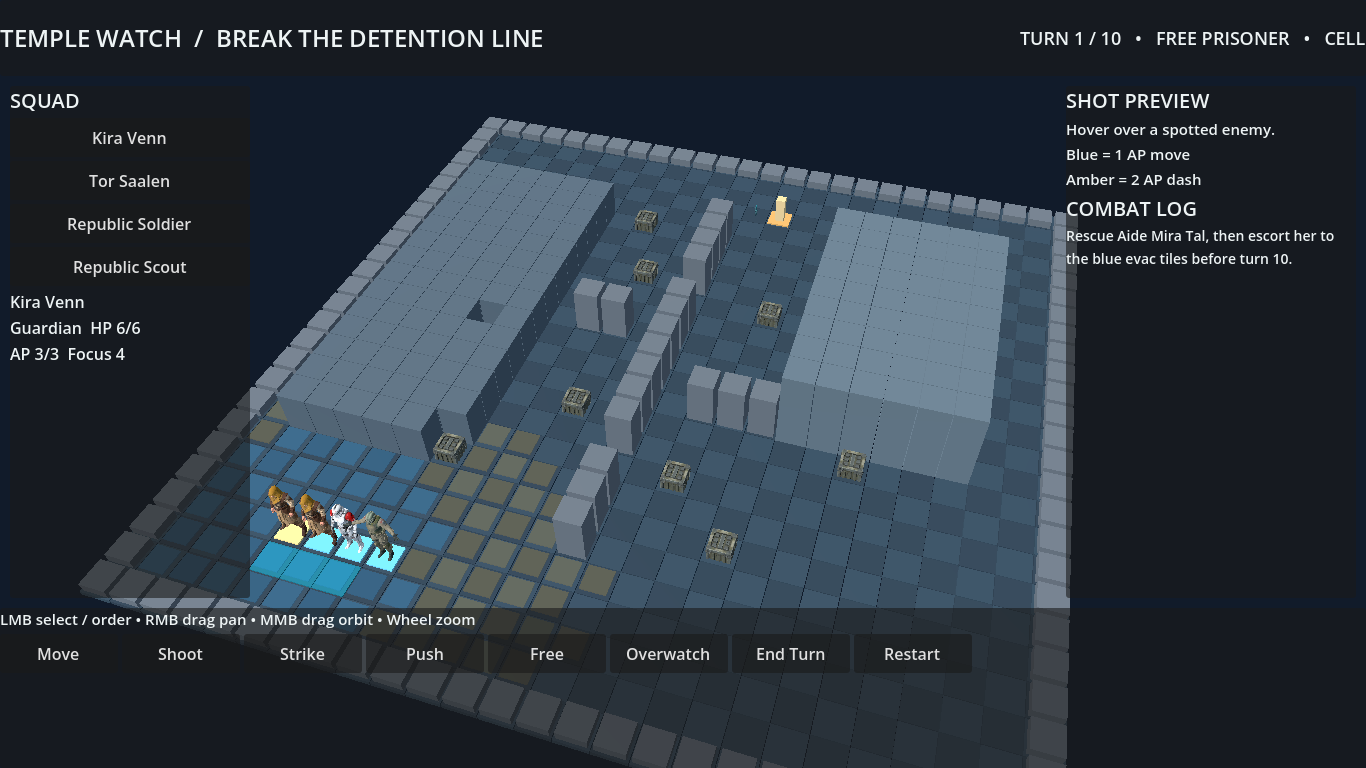
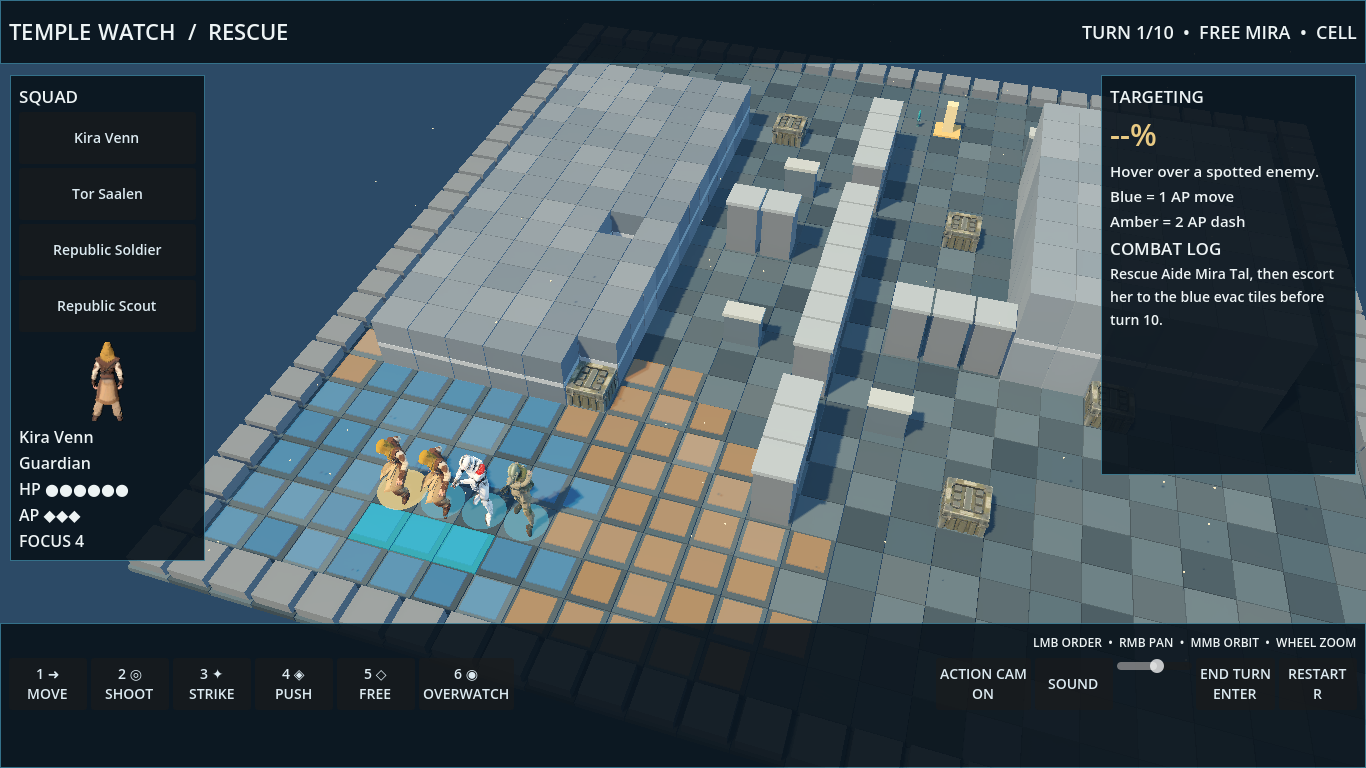
Document and capture the polished rescue mission

diff --git a/docs/godot/README.md b/docs/godot/README.md
@@ -1,41 +1,50 @@
 # Temple Watch desktop rescue mission
 
-Godot 4.7.2, milestones 1–3 complete with parts of milestone 4. Open a desktop window from the repository root:
+Open with Godot 4.7.2 from the repository root:
 
 ```bash
 ./godot/run.sh
 ```
 
-`run.sh` uses `GODOT_BIN` when set; otherwise it uses the installed Godot binary at `/home/jess/projects/.tools/godot/godot`. To use a different Godot installation, set `GODOT_BIN` to its executable path. The game itself uses only `res://` paths and works with a Windows Godot build after opening/importing the project.
+`GODOT_BIN` can point to another Godot 4.7 build. The project uses `res://` assets and can be opened on Windows. Forward+ rendering enables SSAO and glow. The web game in `public/` remains untouched.
 
 ## Play
 
-- Click a squad member or their name to select them. Choose **Move**, then click a blue tile for a 1 AP move or amber tile for a 2 AP dash.
-- Choose **Shoot**, **Strike**, or **Push**, then click a spotted enemy. Hover over an enemy to see hit, crit, graze, line of sight, and the aim breakdown. Strike and Push belong to the Jedi. Push costs 1 AP and 2 Focus; it can break cover on collision.
-- When next to the prisoner, choose **Free** and click her marker. Escort her back to the blue evac tiles. She follows her rescuer and advances toward evac while the escort stays close. A nearby squadmate can take over if the escort falls.
-- **Overwatch** spends the selected unit's remaining AP and fires at the first enemy that moves into sight. **End Turn** runs the enemy turn. Reach evac before the end of turn 10. **Restart** starts a fresh mission.
-- Middle mouse drag orbits, right mouse drag pans, and the wheel zooms. Enter ends the turn; R restarts.
+- Click a squad member or their name to select them. Press **1–6** or use the bottom bar for **Move**, **Shoot**, **Strike**, **Push**, **Free**, and **Overwatch**. Click a reachable tile or target to act. A blue path costs 1 AP; an amber dash costs 2 AP.
+- Hover a tile to see the route, AP cost, and cover from its north, east, south, and west sides. Hover a spotted enemy for hit, crit, graze, cover, line of sight, range, and the aim breakdown.
+- Rescue Aide Mira Tal with **Free** while adjacent, then escort her to the cyan evacuation tiles by turn 10. **Enter** ends the turn; **R** restarts.
+- Right mouse drag pans, middle mouse drag orbits, and the wheel zooms. Click or press **Space** to skip an action camera. The bottom bar has an action camera toggle, sound mute, and volume slider.
 
-## What is implemented
+## Presentation
 
-The 26×26 mission has two routes around a central barricade, low and high ground, directional half/full cover, corner peeks, three staged enemy groups, a prisoner beyond first contact, an announced east-side reinforcement, a clock, and win/lose screens. Squad stats and class names, enemy stats, AP costs, Force Push, saber strike, cover values, range and height aim modifiers, flank crit, and graze were ported from the web game. The web game stays untouched. Mission, units, and ability costs are in `godot/data/*.json`. `godot/scripts/shot.gd` is the single calculation path for previews, execution, reaction fire, and AI.
+Rigged GLB models now keep their view nodes between state updates and play idle, run, shoot, swing, cast, hit, and death clips. Player movement follows the calculated tile route at about four tiles per second; the rules still resolve immediately so headless bot turns remain fast. Attackers turn toward their target. Enemy moves animate and the camera follows their turn. Revealed enemies receive an alert callout.
 
-The first desktop mission has simplified enemy tactics, square-by-square movement, no animation/cinematic camera, no campaign layer, no audio, and no Windows export preset yet. Armor pips, destructible cover through Push, and overwatch cover part of milestone 4. The Godot build does not yet port every web class skill or weapon kit.
+Shots have side colored bolts, a tracer, muzzle sparks, impact debris, miss fly past, and floating damage, MISS, GRAZE, CRIT, and armor text. Saber strikes have a glowing trail. Force Push has a shockwave, target slide, and cover chunks. The camera glides to selected units and blends to a skippable shoulder view for actions over 0.6 seconds. Critical hits and deaths add a small shake.
 
-## Test
+Forward+ lighting adds a warm key, cool fill, shadows, ambient occlusion, fog, and glow. The board has varied floor colors, high ground lips, rubble, modeled crates and terminals, barricades, and dust motes. The HUD adds a model portrait, HP and AP pips, the turn clock, objective, ability hotkeys, path preview, directional cover cues, enemy activity banner, and outcome screen. Sound effects are synthesized locally in GDScript as PCM streams; no external audio is used.
+
+Mission rules and aim calculations remain in `godot/scripts/mission.gd` and `shot.gd`. Presentation lives in `game.gd`, `unit_view.gd`, `fx.gd`, and `audio.gd`. The map and units are defined in `godot/data/*.json`.
+
+## Verification
 
 ```bash
 ./godot/test.sh
 ```
 
-Actual run on Godot 4.7.2: **60 checks, 0 failures**. This includes **12 aim cases** generated directly from frozen `public/js/rules.js` using `node godot/tests/generate_aim_cases.cjs`, directional cover and line-of-sight cases, move/shoot AP, clock loss, evac win, two map routes, reinforcement timing, Force Push cover damage, and **20 seeded bot rescue missions** with **0 script errors**. The bot won **8/20 (40%)**. The bot is a simple greedy rescuer; this rate is a reproducible test result, not a balance target.
+Actual Godot 4.7.2 run: **65 checks, 0 failures, 0 script errors**. The checks include 12 aim fixtures generated from frozen web rules, mission geometry and abilities, 20 seeded rescue bot missions, and a headless scene test that loads the presentation, moves, shoots, and advances three enemy turns. The bot won **8/20 (40%)**; that is a regression result, not a balance target. Screenshots were rendered by software Vulkan under `xvfb-run`; RTX frame rate was not measured in this environment.
 
-## Screenshot
+## Screenshots
 
-![Rescue mission at deployment](shots/rescue-mission.png)
+![Squad at deployment](shots/rescue-mission.png)
 
-Captured under `xvfb-run` with the Godot viewport capture hook:
+![Blaster shot and action camera](shots/rescue-shot.png)
+
+![Force Push and cover break](shots/rescue-push.png)
+
+Capture the same frames from the repository root:
 
 ```bash
 xvfb-run -a -s '-screen 0 1366x768x24' ./godot/run.sh -- --capture="$PWD/docs/godot/shots/rescue-mission.png"
+xvfb-run -a -s '-screen 0 1366x768x24' ./godot/run.sh -- --demo=shot --capture="$PWD/docs/godot/shots/rescue-shot.png"
+xvfb-run -a -s '-screen 0 1366x768x24' ./godot/run.sh -- --demo=push --capture="$PWD/docs/godot/shots/rescue-push.png"
 ```
